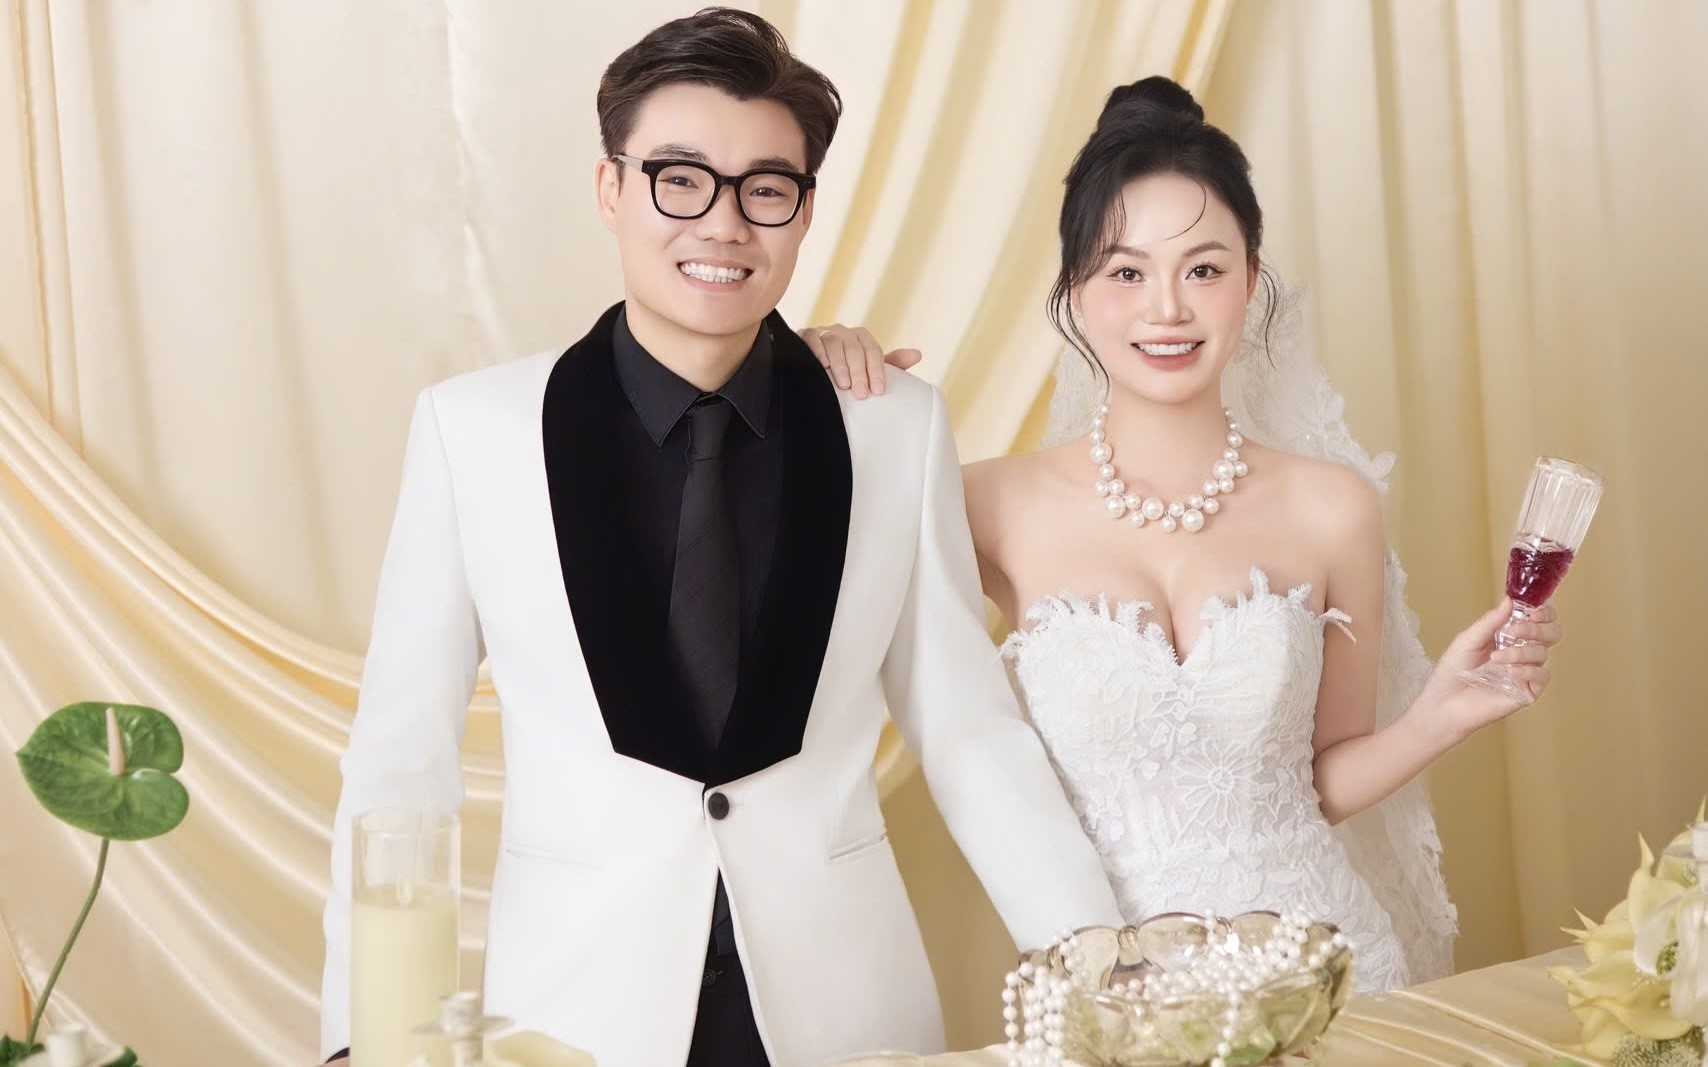
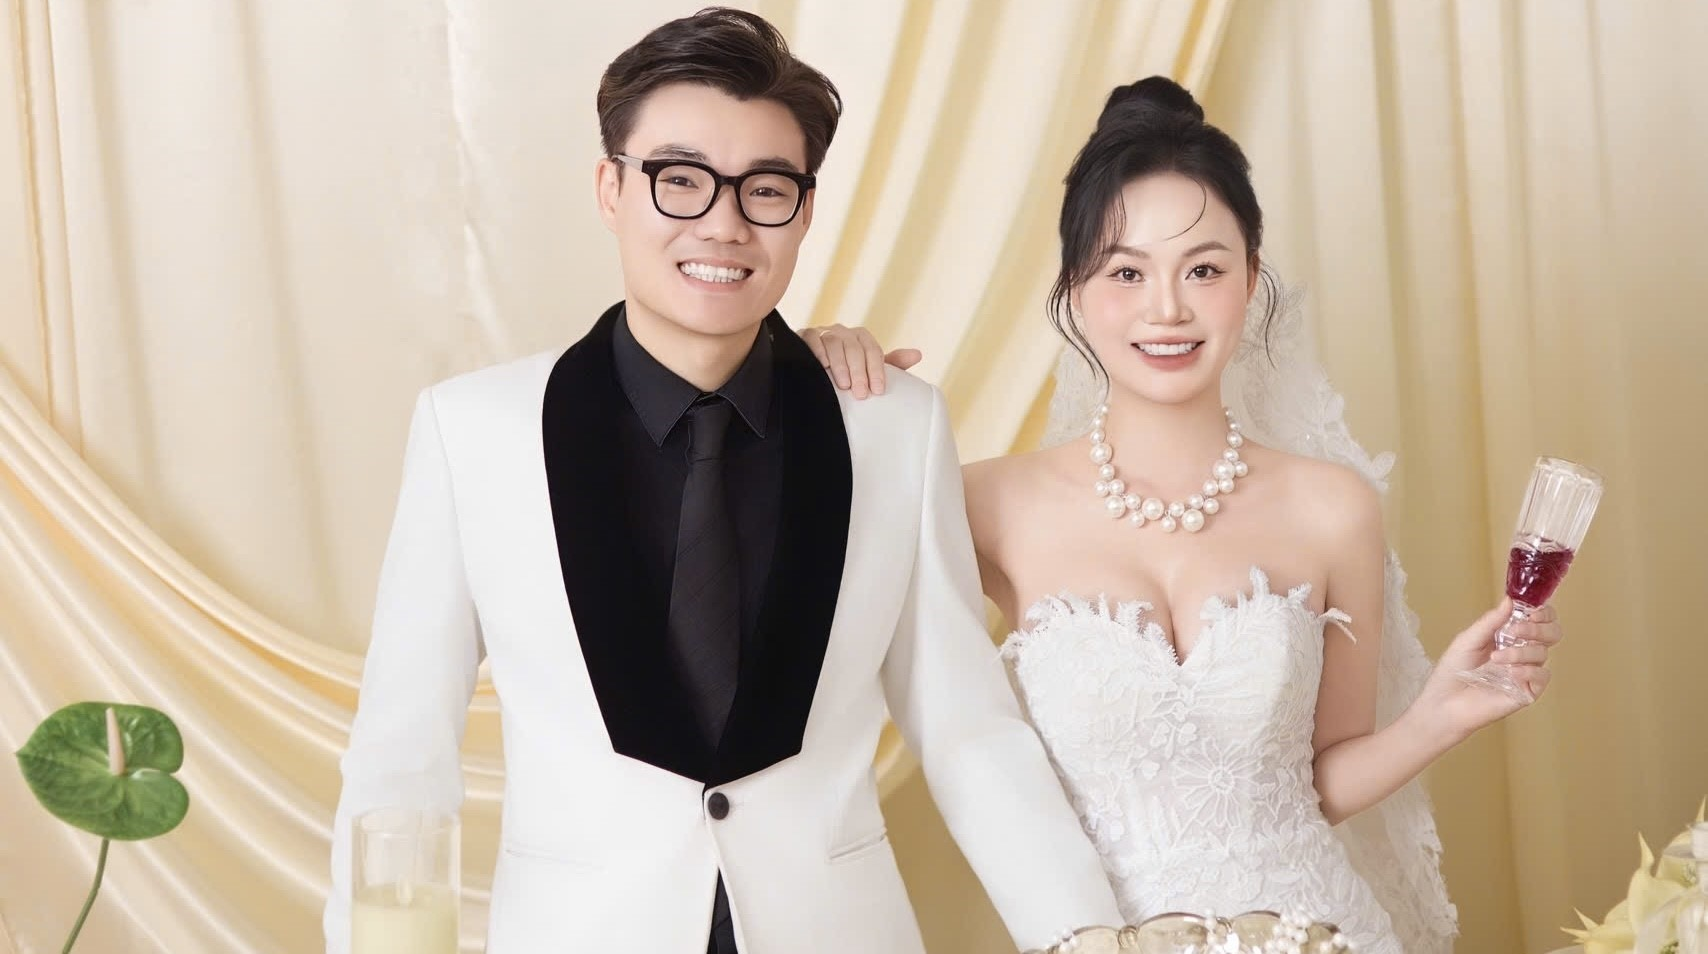
Update preview

Changed region(s): [[0.0, 0.0, 1.0, 1.0]]

diff --git a/index.html b/index.html
@@ -2,7 +2,7 @@
     <meta charset="UTF-8">
     <meta name="viewport" content="width=device-width, initial-scale=1">
     <link rel="profile" href="https://gmpg.org/xfn/11">
-    <meta property="og:image" content="https://lswedding.s3.ap-southeast-1.amazonaws.com/weddings/32/AauRuLYnLxsk9DtRhydQSQl0aZp3XKblggyRMh7L.jpg">
+    <meta property="og:image" content="https://lswedding.s3.ap-southeast-1.amazonaws.com/weddings/32/KuqfNLoriIZVXxEsLX2pXjNhL2wLFWzUa2ZO7lg8.jpg">
 
     <!-- Search Engine Optimization by Rank Math - https://rankmath.com/ -->
     <title> Công Định ❤ Minh Lý - Thiệp cưới online</title>
@@ -14,8 +14,8 @@
     <meta property="og:url" content="https://thiepdientu.github.io/CongDinh-MinhLy/">
     <meta property="og:site_name" content="Công Định ❤Minh Lý">
     <meta property="og:updated_time" content="2024-03-13T11:56:14+00:00">
-    <meta property="og:image" content="https://lswedding.s3.ap-southeast-1.amazonaws.com/weddings/32/AauRuLYnLxsk9DtRhydQSQl0aZp3XKblggyRMh7L.jpg">
-    <meta property="og:image:secure_url" content="https://lswedding.s3.ap-southeast-1.amazonaws.com/weddings/32/AauRuLYnLxsk9DtRhydQSQl0aZp3XKblggyRMh7L.jpg">
+    <meta property="og:image" content="https://lswedding.s3.ap-southeast-1.amazonaws.com/weddings/32/KuqfNLoriIZVXxEsLX2pXjNhL2wLFWzUa2ZO7lg8.jpg">
+    <meta property="og:image:secure_url" content="https://lswedding.s3.ap-southeast-1.amazonaws.com/weddings/32/KuqfNLoriIZVXxEsLX2pXjNhL2wLFWzUa2ZO7lg8.jpg">
     <meta property="og:image:width" content="961">
     <meta property="og:image:height" content="1440">
     <meta property="og:image:alt" content="Thiệp 01">
